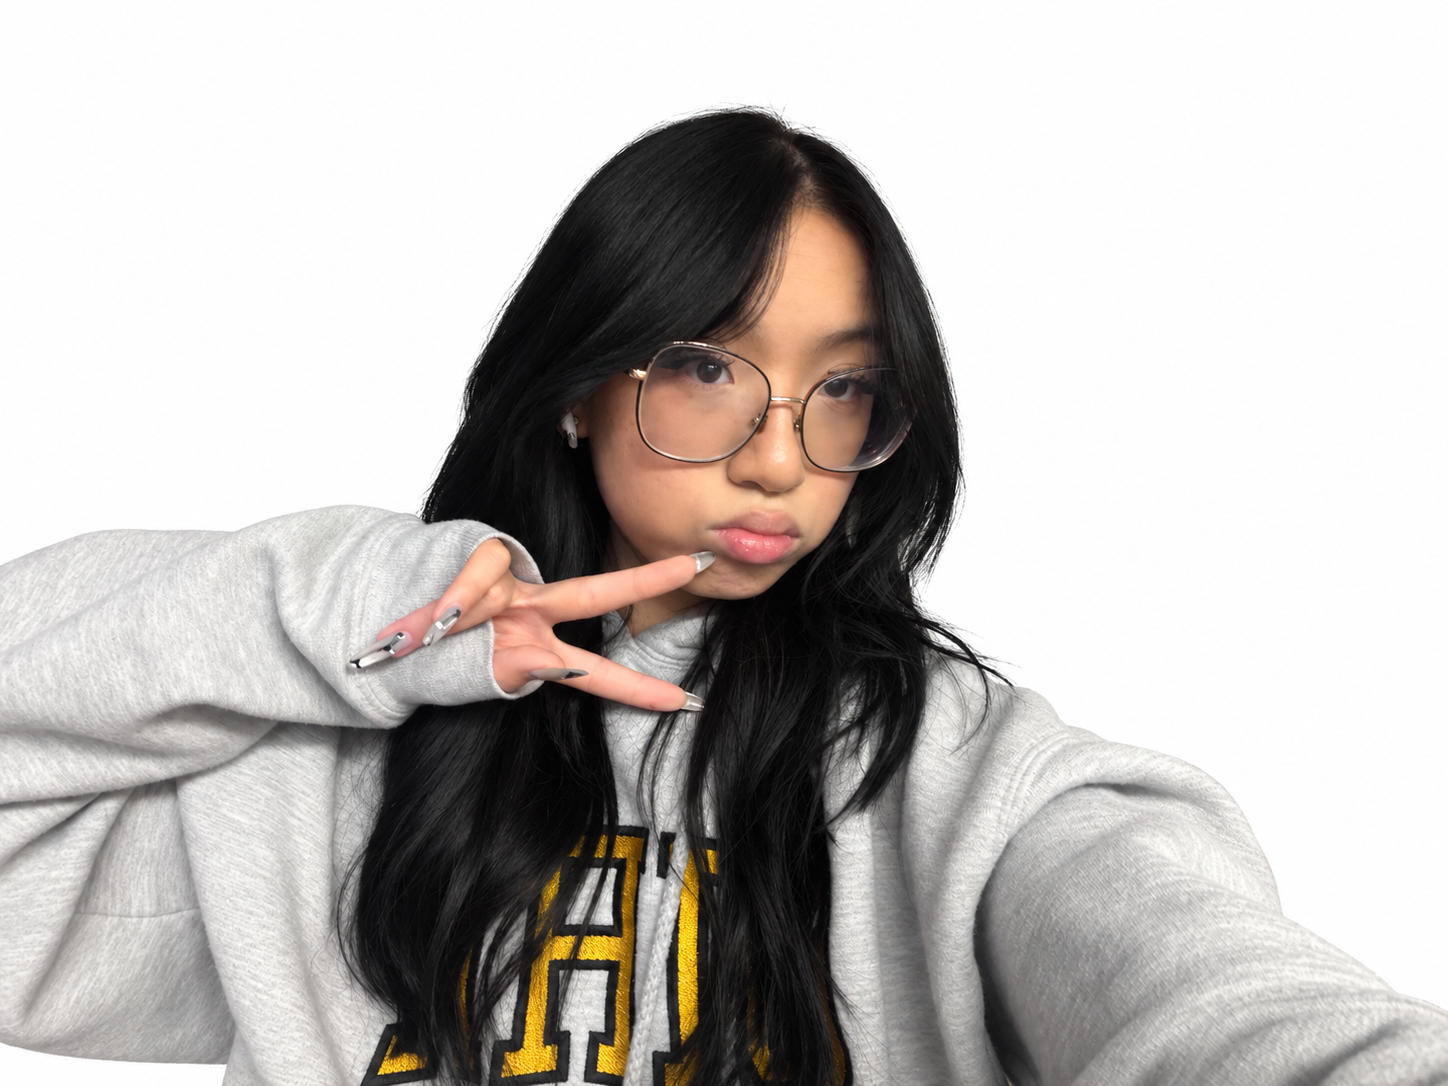
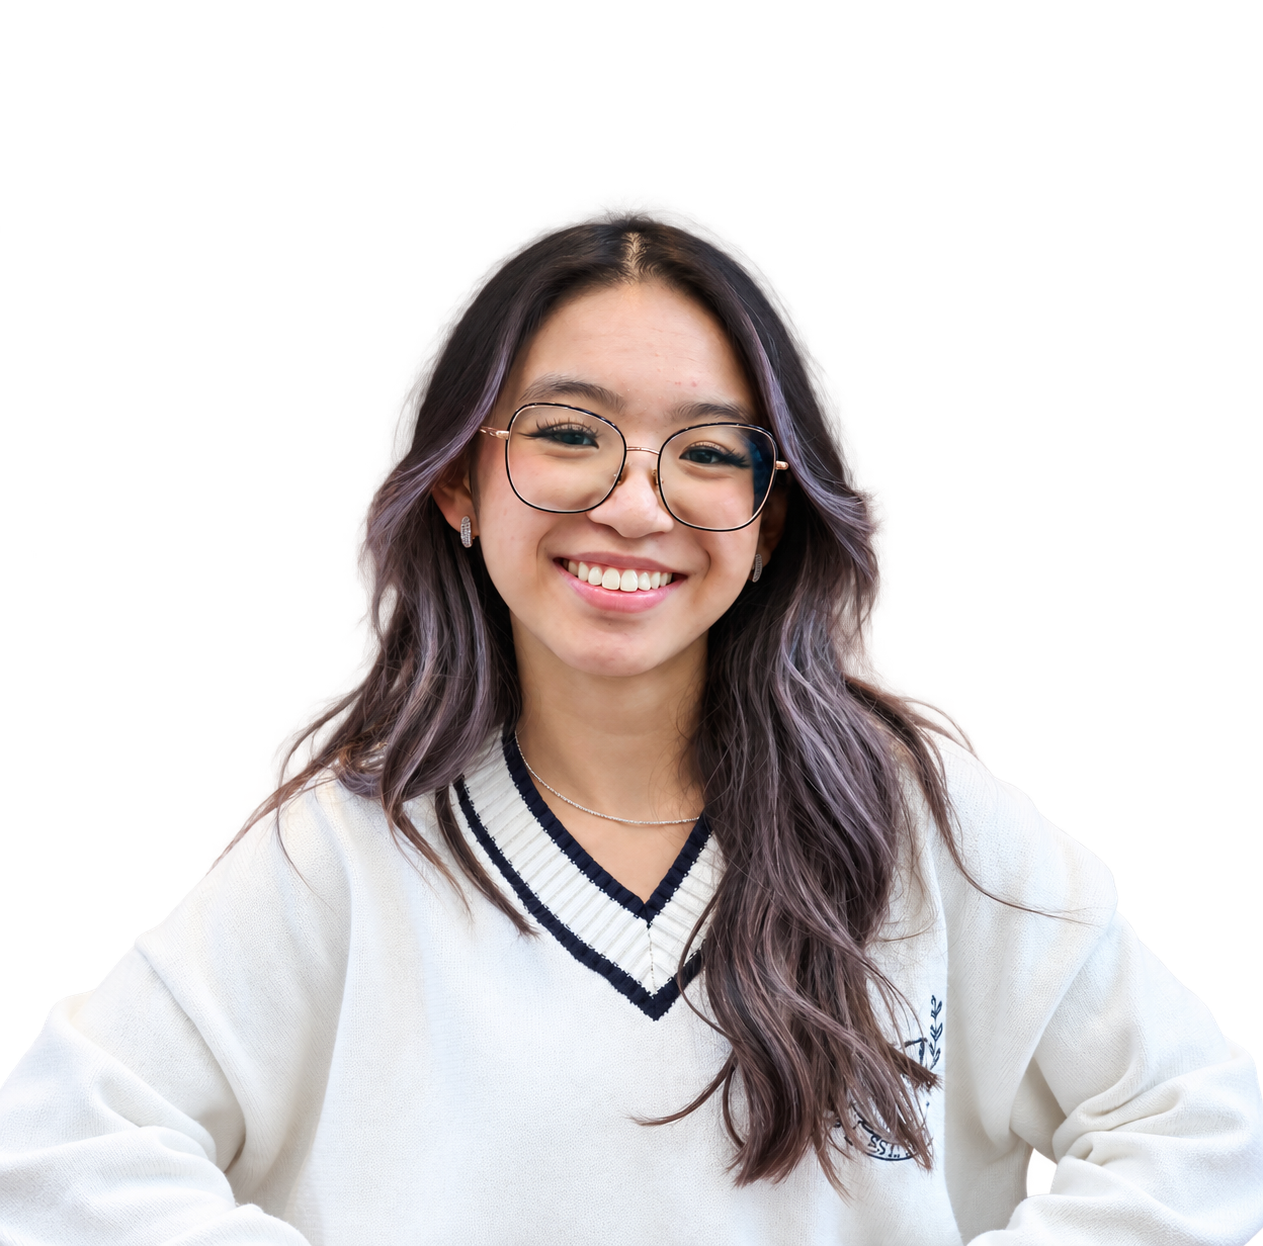
Replace portfolio headshot with transparent portrait

diff --git a/src/components/ReceiptPortfolio.tsx b/src/components/ReceiptPortfolio.tsx
@@ -302,9 +302,9 @@ export default function ReceiptPortfolio() {
             <figure className="intro-portrait">
               <ThermalImage
                 src={`${process.env.PUBLIC_URL}/images/portraits/isabella.png`}
-                alt="Isabella wearing glasses and making a peace sign"
+                alt="Isabella smiling, wearing glasses and a white sweater"
                 width="960"
-                height="720"
+                height="947"
                 loading="eager"
               />
             </figure>
